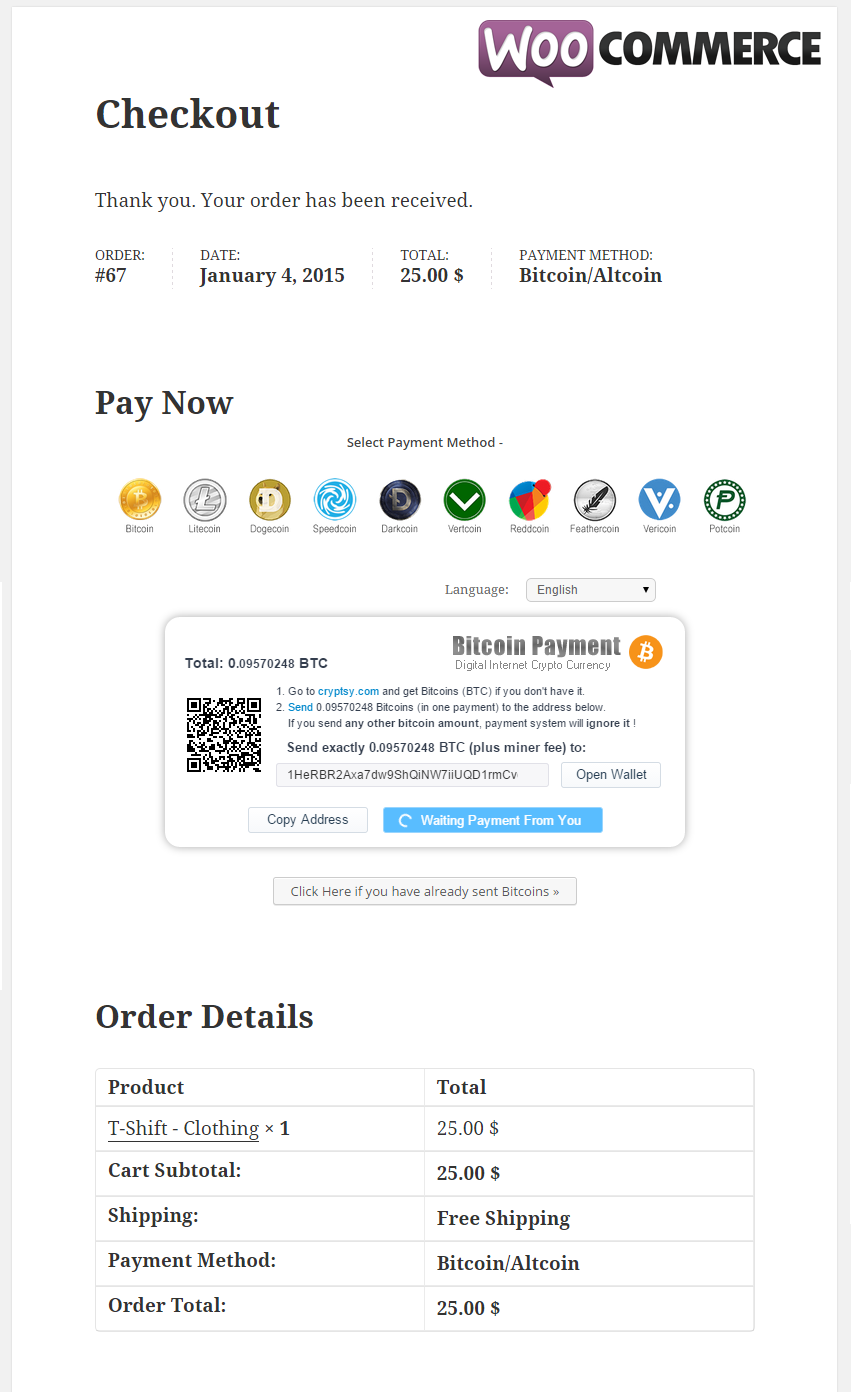
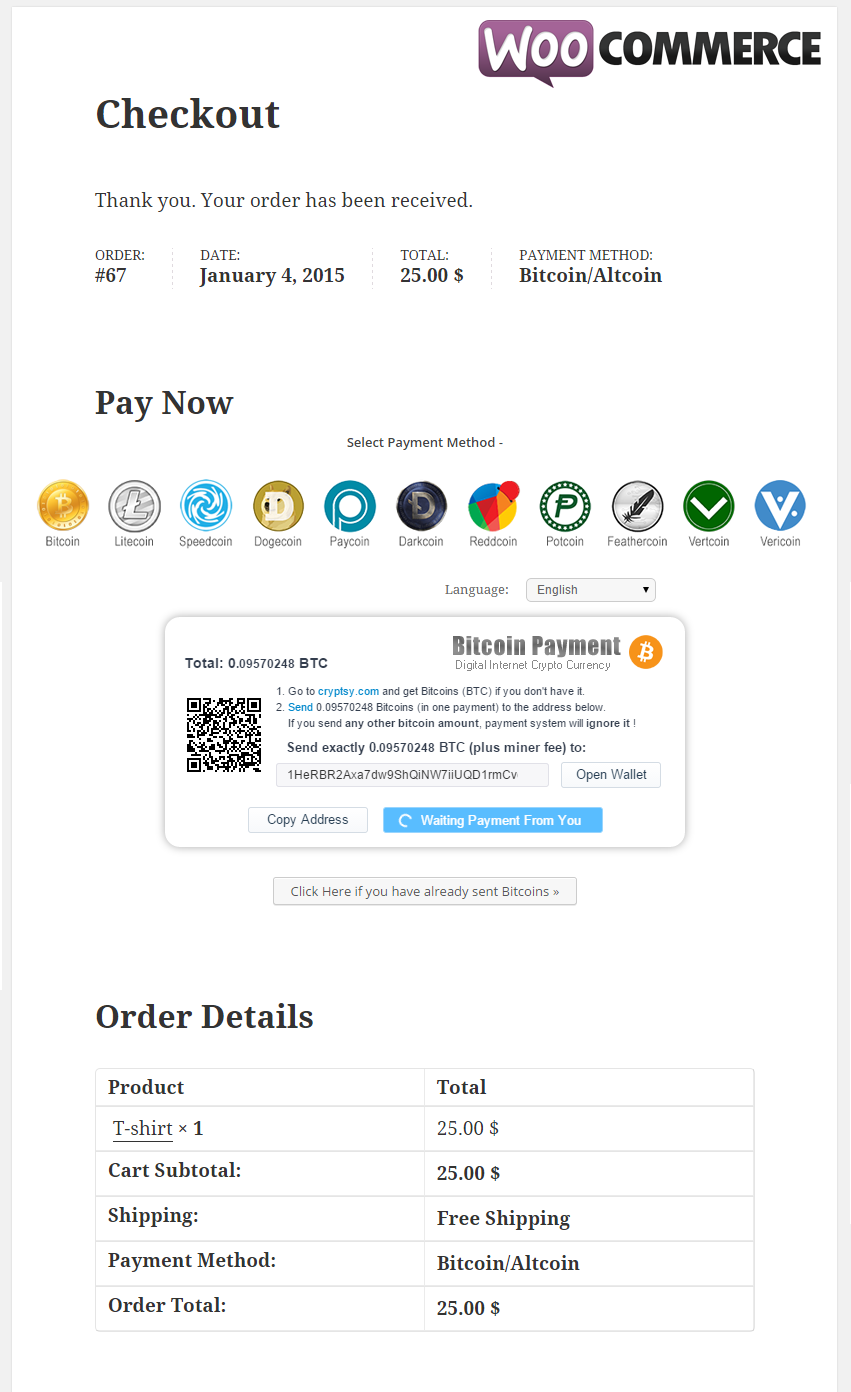
Version 1.0.3
Support new coin - Paycoin XPY

Changed region(s): [[0.0306, 0.3398, 0.9471, 0.4016], [0.1222, 0.8032, 0.3055, 0.8341]]

diff --git a/class-wc-gateway-gourl.php b/class-wc-gateway-gourl.php
@@ -2,8 +2,8 @@
 /*
 Plugin Name: 		GoUrl WooCommerce - Bitcoin Altcoin Payment Gateway Addon
 Plugin URI: 		https://gourl.io/bitcoin-payments-woocommerce.html
-Description: 		Provides a <a href="https://gourl.io">GoUrl.io</a> Payment Gateway for WooCommerce 2.1+. Support product prices in USD/EUR/etc or in Bitcoin/Altcoins directly and sends the amount straight to your business Bitcoin/Altcoin wallet. Convert your USD/EUR/etc prices to cryptocoins using Google/Cryptsy Exchange Rates. Direct Integration on your website, no external payment pages opens (as other payment gateways offer). Accept Bitcoin, Litecoin, Dogecoin, Speedcoin, Darkcoin, Vertcoin, Reddcoin, Feathercoin, Vericoin, Potcoin payments online. You will see the bitcoin/altcoin payment statistics in one common table on your website. No Chargebacks, Global, Secure. All in automatic mode.
-Version: 			1.0.2
+Description: 		Provides a <a href="https://gourl.io">GoUrl.io</a> Bitcoin/Altcoins Payment Gateway for <a href="https://wordpress.org/plugins/woocommerce/">WooCommerce 2.1+</a>. Support product prices in USD/EUR/etc and in Bitcoin/Altcoins directly; sends the amount straight to your business Bitcoin/Altcoin wallet. Convert your USD/EUR/etc prices to cryptocoins using Google/Cryptsy Exchange Rates. Direct Integration on your website, no external payment pages opens (as other payment gateways offer). Accept Bitcoin, Litecoin, Speedcoin, Dogecoin, Paycoin, Darkcoin, Reddcoin, Potcoin, Feathercoin, Vertcoin, Vericoin payments online. You will see the bitcoin/altcoin payment statistics in one common table on your website. No Chargebacks, Global, Secure. All in automatic mode.
+Version: 			1.0.3
 Author: 			GoUrl.io
 Author URI: 		https://gourl.io
 License: 			GPLv2
@@ -60,14 +60,14 @@ function gourl_wc_gateway_load()
 		}
 	
 		if ($file == $this_plugin) {
-			$settings_link = '<a href="' . get_bloginfo('wpurl') . '/wp-admin/admin.php?page=wc-settings&tab=checkout&section=wc_gateway_gourl">'.__( 'Settings', GOURLWC ).'</a>';
+			$settings_link = '<a href="'.admin_url('admin.php?page=wc-settings&tab=checkout&section=wc_gateway_gourl').'">'.__( 'Settings', GOURLWC ).'</a>';
 			array_unshift($links, $settings_link);
 			
 			if (defined('GOURL'))
 			{
-				$unrecognised_link = '<a href="' . get_bloginfo('wpurl') . '/wp-admin/admin.php?page='.GOURL.'payments&s=unrecognised">'.__( 'Unrecognised', GOURLWC ).'</a>';
+				$unrecognised_link = '<a href="'.admin_url('admin.php?page='.GOURL.'payments&s=unrecognised').'">'.__( 'Unrecognised', GOURLWC ).'</a>';
 				array_unshift($links, $unrecognised_link);
-				$payments_link = '<a href="' . get_bloginfo('wpurl') . '/wp-admin/admin.php?page='.GOURL.'payments&s=gourlwoocommerce">'.__( 'Payments', GOURLWC ).'</a>';
+				$payments_link = '<a href="'.admin_url('admin.php?page='.GOURL.'payments&s=gourlwoocommerce').'">'.__( 'Payments', GOURLWC ).'</a>';
 				array_unshift($links, $payments_link);
 			}
 		}
@@ -172,7 +172,7 @@ function gourl_wc_gateway_load()
 	    	global $gourl;
 	    	
 			$this->id                 	= 'gourlpayments';
-			$this->mainplugin_url 		= get_bloginfo('wpurl') . "/wp-admin/plugin-install.php?tab=search&type=term&s=GoUrl+Bitcoin+Payment+Gateway+Downloads";
+			$this->mainplugin_url 		= admin_url("plugin-install.php?tab=search&type=term&s=GoUrl+Bitcoin+Payment+Gateway+Downloads");
 			$this->icon         	  	= apply_filters('woocommerce_gourlpayments_icon', plugin_dir_url( __FILE__ ).'gourlpayments.png' );
 			$this->method_title       	= __( 'GoUrl Bitcoin/Altcoins', GOURLWC );
 			$this->method_description  	= "<img style='float:left; margin-right:15px' src='".plugin_dir_url( __FILE__ )."gourlpayments.png'>";
@@ -182,9 +182,9 @@ function gourl_wc_gateway_load()
 				
 			if (class_exists('gourlclass') && defined('GOURL') && defined('GOURL_ADMIN') && is_object($gourl))
 			{ 
-				if (true === version_compare(GOURL_VERSION, '1.2.6', '<'))
+				if (true === version_compare(GOURL_VERSION, '1.2.7', '<'))
 				{
-					$this->method_description .= '<div class="error"><p>' .sprintf(__( '<b>Your GoUrl Bitcoin Gateway <a href="%s">Main Plugin</a> version is too old. Requires 1.2.6 or higher version. Please <a href="%s">update</a> to latest version.</b>  &#160; &#160; &#160; &#160; Information: &#160; <a href="https://gourl.io/bitcoin-wordpress-plugin.html">Plugin Homepage</a> &#160; &#160; &#160; <a href="https://wordpress.org/plugins/gourl-bitcoin-payment-gateway-paid-downloads-membership/">WordPress.org Plugin Page</a>', GOURLWC ), GOURL_ADMIN.GOURL, $this->mainplugin_url).'</p></div>';
+					$this->method_description .= '<div class="error"><p>' .sprintf(__( '<b>Your GoUrl Bitcoin Gateway <a href="%s">Main Plugin</a> version is too old. Requires 1.2.7 or higher version. Please <a href="%s">update</a> to latest version.</b>  &#160; &#160; &#160; &#160; Information: &#160; <a href="https://gourl.io/bitcoin-wordpress-plugin.html">Plugin Homepage</a> &#160; &#160; &#160; <a href="https://wordpress.org/plugins/gourl-bitcoin-payment-gateway-paid-downloads-membership/">WordPress.org Plugin Page</a>', GOURLWC ), GOURL_ADMIN.GOURL, $this->mainplugin_url).'</p></div>';
 				}
 				elseif (true === version_compare(WOOCOMMERCE_VERSION, '2.1', '<'))
 				{
@@ -202,8 +202,8 @@ function gourl_wc_gateway_load()
 				$this->method_description .= '<div class="error"><p>' .sprintf(__( '<b>You need to install GoUrl Bitcoin Gateway Main Plugin also. Go to - <a href="%s">Bitcoin Gateway plugin page</a></b> &#160; &#160; &#160; &#160; Information: &#160; <a href="https://gourl.io/bitcoin-wordpress-plugin.html">Plugin Homepage</a> &#160; &#160; &#160; <a href="https://wordpress.org/plugins/gourl-bitcoin-payment-gateway-paid-downloads-membership/">WordPress.org Plugin Page</a> ', GOURLWC ), $this->mainplugin_url).'</p></div>';
 			}
 			
-			$this->method_description  .= sprintf(__( 'Accept %s payments online in WooCommerce.', GOURLWC), ($this->coin_names?ucwords(implode(", ", $this->coin_names)):"Bitcoin, Litecoin, Dogecoin, Speedcoin, Darkcoin, Vertcoin, Reddcoin, Feathercoin, Vericoin, Potcoin")).'<br/>';
-			$this->method_description .= __( 'If you use multiple stores, please create separate <a target="_blank" href="https://gourl.io/editrecord/coin_boxes/0">GoUrl Payment Box</a> (with unique payment box public/private keys) for each of your stores/websites. Do not use the same GoUrl Payment Box with the same public/private keys on your different websites/stores.', GOURLWC );
+			$this->method_description  .= sprintf(__( 'Accept %s payments online in WooCommerce.', GOURLWC), ($this->coin_names?ucwords(implode(", ", $this->coin_names)):"Bitcoin, Litecoin, Speedcoin, Dogecoin, Paycoin, Darkcoin, Reddcoin, Potcoin, Feathercoin, Vertcoin, Vericoin")).'<br/>';
+			$this->method_description .= __( 'If you use multiple stores/sites online, please create separate <a target="_blank" href="https://gourl.io/editrecord/coin_boxes/0">GoUrl Payment Box</a> (with unique payment box public/private keys) for each of your stores/websites. Do not use the same GoUrl Payment Box with the same public/private keys on your different websites/stores.', GOURLWC );
 			$this->method_description .= '<br/><br/>';
 				
 
@@ -226,7 +226,7 @@ function gourl_wc_gateway_load()
 			
 			// Re-check
 			if (!$this->title)								$this->title 		= __('GoUrl Bitcoin/Altcoins');
-			if (!$this->description)						$this->description 	= __('Pay with virtual currency', GOURLWC);
+			if (!$this->description)						$this->description 	= __('Secure, anonymous payment with virtual currency', GOURLWC);
 			if (!isset($this->statuses[$this->ostatus])) 	$this->ostatus  	= 'processing';
 			if (!isset($this->statuses[$this->ostatus2])) 	$this->ostatus2 	= 'completed';
 			if (!isset($this->languages[$this->deflang])) 	$this->deflang 		= 'en';
@@ -288,7 +288,7 @@ function gourl_wc_gateway_load()
 				'description' 	=> array(
 					'title'       	=> __( 'Description', GOURLWC ),
 					'type'        	=> 'textarea',
-					'default'     	=> trim(sprintf(__( 'Pay with virtual currency - %s', GOURLWC ), $coins), " -") . '. ' . __( '<a target="_blank" href="https://bitcoin.org/en/">What is bitcoin?</a>'),
+					'default'     	=> trim(sprintf(__( 'Secure, anonymous payment with virtual currency - %s', GOURLWC ), $coins), " -") . '. ' . __( '<a target="_blank" href="https://bitcoin.org/en/">What is bitcoin?</a>'),
 					'description' 	=> __( 'Payment method description that the customer will see on your checkout', GOURLWC )
 				),
     			'emultiplier' 	=> array(
@@ -369,7 +369,7 @@ function gourl_wc_gateway_load()
 			echo '<h2>' . __( 'Information', GOURLWC ) . '</h2>' . PHP_EOL;
 			echo "<div class='woocommerce-error'>".__( "Please try a different payment method. Admin need to install and activate wordpress plugin 'GoUrl Bitcoin Gateway' (https://gourl.io/bitcoin-wordpress-plugin.html) to accept Bitcoin/Altcoin Payments online", GOURLWC )."</div>";
 		}
-		elseif (!$this->payments || !$this->defcoin || true === version_compare(WOOCOMMERCE_VERSION, '2.1', '<') || true === version_compare(GOURL_VERSION, '1.2.6', '<') || 
+		elseif (!$this->payments || !$this->defcoin || true === version_compare(WOOCOMMERCE_VERSION, '2.1', '<') || true === version_compare(GOURL_VERSION, '1.2.7', '<') || 
 				(array_key_exists($order->order_currency, $this->coin_names) && !array_key_exists($order->order_currency, $this->payments)))
 		{
 			echo '<h2>' . __( 'Information', GOURLWC ) . '</h2>' . PHP_EOL;
@@ -396,7 +396,7 @@ function gourl_wc_gateway_load()
 			{
 				echo '<h2>' . __( 'Information', GOURLWC ) . '</h2>' . PHP_EOL;
 				echo "<div align='center'><a href='".wp_login_url(get_permalink())."'>
-						<img style='border:none;box-shadow:none;' title='".__('You need to login or register on website first', GOURLWC )."' vspace='10'
+						<img style='border:none;box-shadow:none;' title='".__('You need first to login or register on the website to make Bitcoin/Altcoin Payments', GOURLWC )."' vspace='10'
 						src='".$gourl->box_image()."' border='0'></a></div>";
 			}
 			elseif ($amount <= 0)
@@ -473,6 +473,10 @@ function gourl_wc_gateway_load()
 			
 			// Payment Page
 			$payment_link = $this->get_return_url($order);
+
+			// New Order
+			$user = (!$order->user_id) ? __('Guest', GOURLWC) : "<a href='".htmlspecialchars("user-edit.php?user_id=".$order->user_id, ENT_QUOTES)."'>user".$order->user_id."</a>";
+			$order->add_order_note(sprintf(__('Order Created by %s<br>Awaiting Cryptocurrency Payment ...<br>', GOURLWC), $user));
 			
 			// Reduce stock levels
 			$order->reduce_order_stock();
@@ -531,7 +535,7 @@ function gourl_wc_gateway_load()
 	    	
 	    	
 	    	// Existing Payment confirmed (6+ confirmations)
-	    	if ($payment_details["is_confirmed"]) 
+	    	if ($payment_details["is_confirmed"])
 	    	{	
 	    		update_post_meta( $order->id, 'confirmed', $confirmed );
 	    		$order->add_order_note(sprintf(__('%s Payment id <a href="%s">%s</a> Confirmed<br>', GOURLWC), $coinName, GOURL_ADMIN.GOURL."payments&s=payment_".$payID, $payID));
@@ -589,4 +593,4 @@ function gourl_wc_gateway_load()
 
 
 }
-// end gourl_wc_gateway_load()    
+// end gourl_wc_gateway_load()

diff --git a/readme.md b/readme.md
@@ -2,38 +2,47 @@
 GoUrl WooCommerce - Bitcoin Altcoin Payment Gateway Addon
 -----------------------------------------------------------
 
-Version 1.0.2
+Version 1.0.3
 
+**Wordpress Plugin provides a Bitcoin/Altcoins Payment Gateway for WooCommerce 2.1+ or higher.**
 
-**Wordpress Plugin provides a Bitcoin Payment Gateway for WooCommerce 2.1+. Accept Bitcoins, Litecoin, Dogecoin, Darkcoin, Reddcoin, etc. Payments Online**
+Accept Bitcoin, Litecoin, Speedcoin, Dogecoin, Paycoin, Darkcoin, Reddcoin, Potcoin, Feathercoin, Vertcoin, Vericoin on Website Online
 
 * Author URI: [https://gourl.io](https://gourl.io)
-* Plugin URI: [https://gourl.io/bitcoin-payments-woocommerce.html](https://gourl.io/bitcoin-payments-woocommerce.html)
+* Plugin Page: [https://gourl.io/bitcoin-payments-woocommerce.html](https://gourl.io/bitcoin-payments-woocommerce.html)
+* Wordpress Page: [https://wordpress.org/plugins/gourl-woocommerce-bitcoin-altcoin-payment-gateway-addon](https://wordpress.org/plugins/gourl-woocommerce-bitcoin-altcoin-payment-gateway-addon/)
 * Screenshots: [https://gourl.io/bitcoin-payments-woocommerce.html#screenshot](https://gourl.io/bitcoin-payments-woocommerce.html#screenshot)
 * Requires at least: Wordpress 3.5 and WooCommerce 2.1
 * Tested up to: Wordpress 4.2 and WooCommerce 2.2 
-* Stable Tag: 1.0.2
+* Stable Tag: 1.0.3
 * License: GNU Version 2 or Any Later Version
 
 
 **Wordpress Plugin for WooCommerce Features -**
 
 * 100% Free Open Source Plugin on [Github.com](https://github.com/cryptoapi/Bitcoin-Payments-Woocommerce)
-* Provides a Payment Gateway for WooCommerce 2.1 +
-* Accept Bitcoin, Litecoin, Dogecoin, Speedcoin, Darkcoin, Vertcoin, Reddcoin, Feathercoin, Vericoin, Potcoin payments in WooCommerce
+* Provides a Cryptocurrency Payment Gateway for [WooCommerce 2.1 or higher](https://wordpress.org/plugins/woocommerce/)
+* Accept Bitcoin and other cryptocurrency payments in WooCommerce
 * No Monthly Fee, Transaction Fee from 0%
 * Product Prices in Bitcoin/Altcoins directly and sends the amount straight to your business wallet.
-* Product Prices in USD/EUR/GBP/etc. Google/Cryptsy Live Exchange Rates
+* Product Prices in USD/EUR/GBP/etc. Google/Bitstamp/Cryptsy Live Exchange Rates
 * Direct Integration on your website, no external payment pages opens (as other payment gateways offer)
 * You will see the bitcoin/altcoin payment statistics in one common table on your website. 
 * No Chargebacks, Global, Secure. All in automatic mode.
-* [Free Plugin Support](https://gourl.io/view/contact/Contact_Us.html) for You
+* [Free Tech Support](https://gourl.io/view/contact/Contact_Us.html) for You
 
 
 # ![WooCommerce-Order-Page](https://gourl.io/images/woocommerce/screenshot-2.png)
 
+
+Awaiting Payment
+----------------
 # ![WooCommerce-Payment-Page](https://gourl.io/images/woocommerce/screenshot-3.png)
 
+
+Payment Received
+----------------
+# ![WooCommerce-Payment-Received](https://gourl.io/images/woocommerce/screenshot-4.png)
 
 
 Installation Instruction
@@ -59,4 +68,4 @@ Plugin Options
 
   
 # ![WooCommerce-Plugin-Options](https://gourl.io/images/woocommerce/screenshot-1.png)
- 
+               
